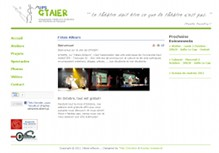
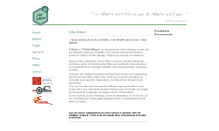
Bug in comments / Improving style for mobile

diff --git a/css/style.css b/css/style.css
@@ -1424,11 +1424,15 @@ body{
   padding:0;
 }
 .titre_site{
-  padding-top: 30px;
+  padding-top: 130px;
   min-width: 300px;
   max-width: 728px;
   line-height: 55px;
   font-size: 55px;
+}
+#titre_site {
+  padding: 40px 20px 0 20px;
+  
 }
 .sous_titre_site{width:100%;min-width:300px;max-width:728px;font-size:18px;}
 .header_degrade{width:100%;min-width:300px;max-width:768px;padding-bottom:40px;margin-left:auto;margin-right:auto;}

diff --git a/pages/body.php b/pages/body.php
@@ -57,8 +57,10 @@
           <a href="<?=$url_fr?>" class="lang" onClick="menu();"><div class="fr"></div></a>
           <a href="<?=$url_en?>" class="lang" onClick="menu();"><div class="en"></div></a>
         </div>
-        <span class="titre_site roll"><span data-title="<?=NAME?>"><a class="unstyled_link" href="<?=ROOTPATH?>" onClick="menu();"><?=NAME?></a></span></span>
-        <div class="sous_titre_site"><div class="star">*</div><?=$langage_index['ss_titre1'][$lang]?><div class="star">*</div><?=$langage_index['ss_titre2'][$lang]?><div class="star">*</div></div>
+        <div id="titre_site">
+          <span class="titre_site roll"><span data-title="<?=NAME?>"><a class="unstyled_link" href="<?=ROOTPATH?>" onClick="menu();"><?=NAME?></a></span></span>
+          <div class="sous_titre_site"><div class="star">*</div><?=$langage_index['ss_titre1'][$lang]?><div class="star">*</div><?=$langage_index['ss_titre2'][$lang]?><div class="star">*</div></div>
+        </div>
       </div>
       <div class="separateur_header">
         <div class="conteneur_liens_sociaux">

diff --git a/locales/profil.php b/locales/profil.php
@@ -35,13 +35,13 @@ $langage = array(
         <a class=\"lien\" href=\"index.php?page=6&amp;article=2&amp;lang=en\" onClick='menu();'>get involved!</a></p>
         <p>On this site you will find information about me, my current projects,
         the Mozilla community, open-source softwares, development, etc.<br/>
-        I create websites for several years now, and mastering key
+        I've been building website for several years now, and mastering key
         programming languages of today's web (HTML, CSS, PHP, SQL, JavaScript ...).
         I also have some experience in the integration within the Content Management Systems
         (Joomla for example.), And mastery GIMP. </p>
         <p>I focused on the use of new standards, which I strongly believe,
         to develop an open and accessible Web. </p>
-        <p>I apologize for all the English grammar faults on this website, but if you want, 
+        <p>I apologize for all the English grammar mistakes on this website, but if you want, 
         you can help me to fix it. :)</p>")
 );
  ?>

diff --git a/pages/articles.php b/pages/articles.php
@@ -17,7 +17,7 @@ if(isset($_GET['article'])&& !empty($_GET['article']))
   //Et on affiche l'article
  ?>
   <a href="index.php?page=6&amp;lang=<?=$lang?>" onClick="menu();"><div class="art_link titre"><div class="arrow_back"></div> <?=$langage['titre'][$lang]?></div></a>
-  <article class="art_all">
+  <div class="art_all">
     <h1 class="art_titre art_titre_article"><?=utf8_encode($art['titre_'.$lang])?></h1>
     <?php if(!empty($art['date_update_'.$lang])) echo '<span id="update">'.$langage['update'][$lang].' '.date_heure($art['date_update_'.$lang], $lang).'.</span>'; ?>
     <div class="art_text">
@@ -150,7 +150,7 @@ if(isset($_GET['article'])&& !empty($_GET['article']))
       <div id="resultats" class="warning"></div>
     </div>
     <span class="requis"><?=$langage['requis'][$lang]?></span>
-  </article>
+  </div>
   <a href="index.php?page=6&amp;lang=<?=$lang?>" onClick="menu();"><div class="art_link art_link_bot titre"><div class="arrow_back"></div> <?=$langage['titre'][$lang]?></div></a>
 <?php
 }

diff --git a/pages/creations.php b/pages/creations.php
@@ -9,6 +9,14 @@ include("pages/body.php");
     <div class="titre"><?=$langage['titre'][$lang]?></div>
     <div class="cadre_titre"></div>
     <div class="texte">
+        <div>
+      <div class="image image_black image_shadow"><a href="http://psvideo.fr/index.php" target="_blank"><img src="img/creations/default.jpg" alt="" /></a></div>
+      <div class="creations_text">
+      <h2><?=$langage['psv_titre'][$lang]?></h2>
+      <p><?=$langage['psv'][$lang]?></p>
+      </div>
+      <div class="clear"></div>
+    </div>
     <div>
       <div class="image image_black image_shadow"><a href="http://www.mozilla.org/about" target="_blank"><img src="img/creations/5.jpg" alt="" /></a></div>
       <div class="creations_text">

diff --git a/locales/creations.php b/locales/creations.php
@@ -6,6 +6,12 @@ $langage = array(
 'page_desc' => array(
   'fr' => "Voici la liste des projets sur lesquels j'ai travaillé.",
   'en' => "Here is the list of projects I've worked on."),
+'psv_titre' => array(
+  'fr' => "PSV.COM",
+  'en' => "PSV.COM"),
+'psv' => array(
+  'fr' => "Refonte du site de l'agence de publicité toulousaine PSV.COM, dans le cadre de mon stage de première année de BTS.",
+  'en' => "New website of advertising agency PSV.COM based in Toulouse, as part of my internship in the first year of BTS."),
 'fx_titre' => array(
   'fr' => "Mozilla Firefox",
   'en' => "Mozilla Firefox"),

diff --git a/includes/com.php b/includes/com.php
@@ -49,8 +49,7 @@ if(isset($_POST['nom']) && $_POST['nom'] !="" && isset($_POST['email']) && $_POS
   {
     $mail = strtolower(mysql_real_escape_string(utf8_decode($_POST['email'])));
     $nom = mysql_real_escape_string(utf8_decode($_POST['nom']));
-    $message = nl2br(htmlspecialchars(utf8_decode($_POST['message'])));
-    echo $message;
+    $message = utf8_decode(mysql_real_escape_string(stripslashes(nl2br(htmlspecialchars($_POST['message'])))));
     $follow = mysql_real_escape_string(utf8_decode($_POST['follow']));
     $time = time();
     $art = intval($_POST['article']);
